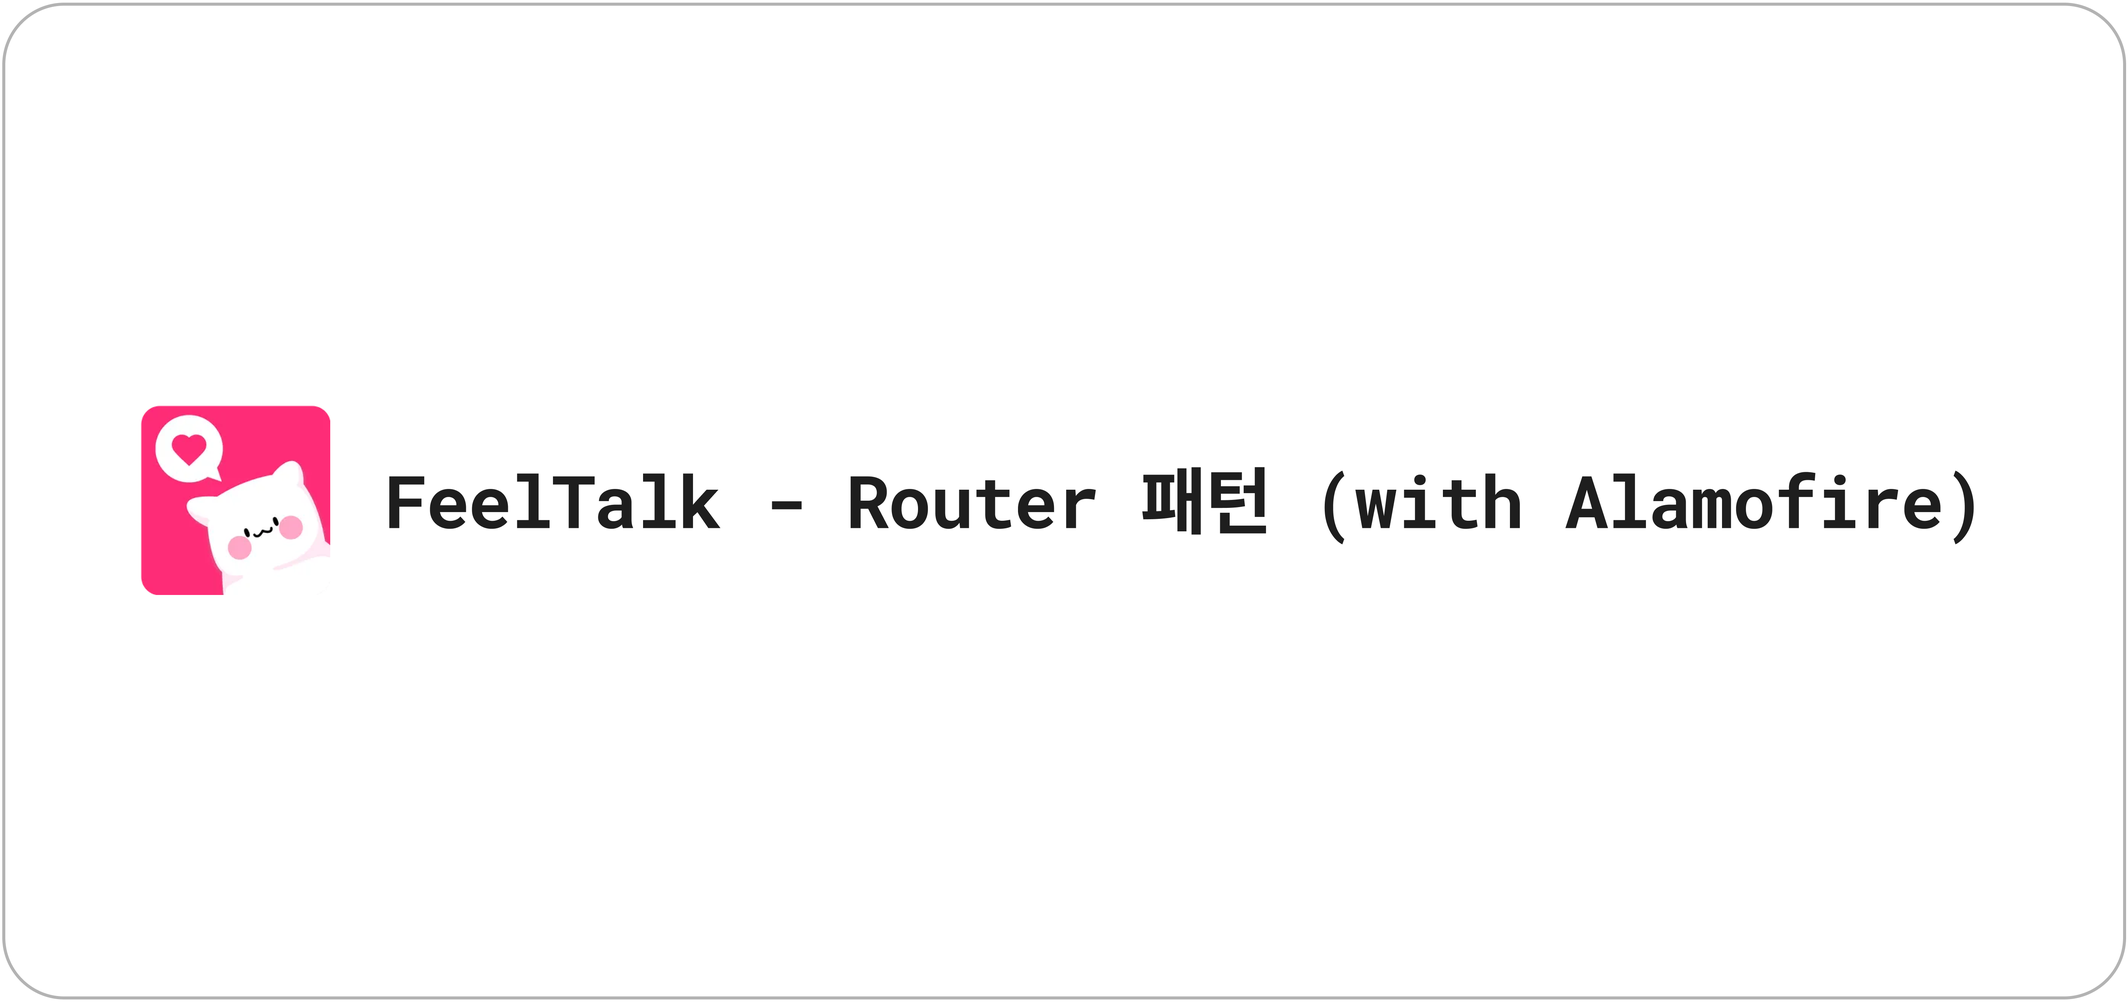
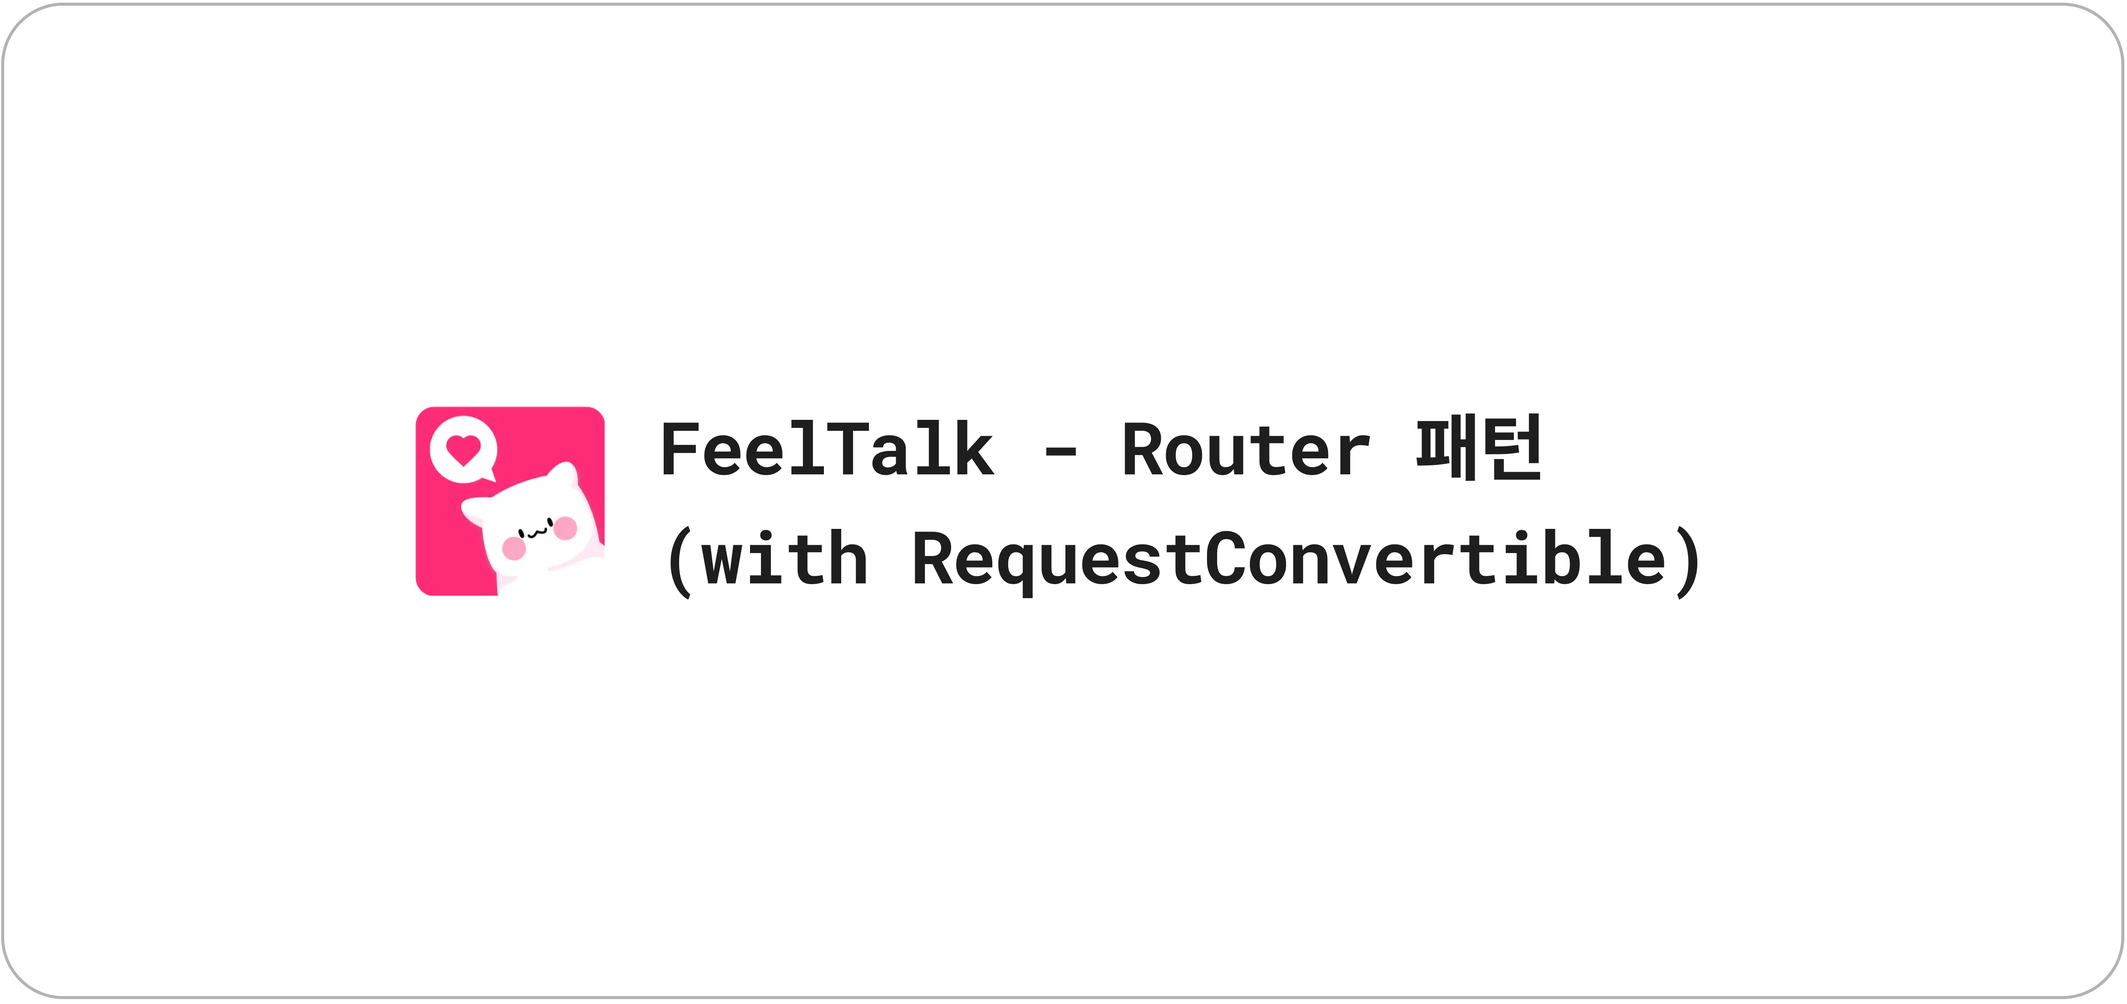
📝 Update feelTalk router documentation

Changed region(s): [[0.0623, 0.4021, 0.9345, 0.6186], [0.9968, 0.0309, 1.0, 0.9589]]

diff --git a/_posts/study/ios/2026-01-04-iOS_FeelTalk_Network_Router.md b/_posts/study/ios/2026-01-04-iOS_FeelTalk_Network_Router.md
@@ -1,6 +1,6 @@
 ---
 layout: post
-title: "FeelTalk - Router 패턴 (with Alamofire)"
+title: "FeelTalk - Router 패턴 (with URLRequestConvertible)"
 sitemap: false
 categories: [study, ios]
 tags: [ios]
@@ -11,100 +11,73 @@ tags: [ios]
 ![Thumbnail](/assets/img/blog/ios/feelTalk_router_thumbnail.png)
 
 ## ✍ Introduction
-이 글에서는 FeelTalk 프로젝트의 네트워크 레이어를 구조화하고 유지보수 효율을 높이기 위해 Router 패턴을 도입하게 된 배경과 구체적인 설계 과정을 소개합니다.
+이 글은 FeelTalk 프로젝트에서 **API 요청을 구성하는 책임을 Router 패턴으로 분리하여 유지보수성과 타입 안정성을 개선한 설계 사례**를 정리한 기술 문서입니다.
 
-특히, Alamofire의 *URLRequestConvertible* 프로토콜을 활용하여 네트워크 요청(Request) 로직을 어떻게 규격화하고 캡슐화했는지를 중점적으로 다루어 보려 합니다.
+Alamofire의 `URLRequestConvertible` 프로토콜을 기반으로 API 명세를 enum으로 구조화하고, API 요청 구성 로직을 **일관되고 예측 가능한 구조**로 정리한 과정을 담고 있습니다.
+
+---
+## 🧱 Background
+네트워크 통신은 앱 전반에 걸쳐 사용되며, FeelTalk 프로젝트에서는 이를 Repository 계층을 통해 관리하고 있었습니다.
+
+그러나 Repository를 도입한 이후에도 API 요청을 어떻게 구성할 것인지에 대한 기준이 없을 경우 해당 로직이 각 Repository 내부에 분산되는 문제가 발생했습니다.
+
+실제로 FeelTalk 프로젝트 초기에는 다음과 같은 문제가 있었습니다.
+
+- **API 요청 명세의 분산**
+  - API 호출이 필요한 Repository마다 URL, HTTP Method, Parameter를 개별 정의
+  - 동일한 API 요청 코드가 여러 Repository에 중복
+  - API 명세 변경 시 수정 범위가 여러 Repository로 확산
+
+- **타입 안전성 부족**
+  - 문자열 기반 Path 관리로 오타를 컴파일 타임에 검출 불가
+  - 네트워크 오류가 런타임에서만 드러나는 구조
+
+이러한 문제는 Repository의 역할을 “데이터 접근 추상화”를 넘어 “API 요청 구성”까지 포함하도록 만들었고, 결과적으로 유지보수 비용과 기능 확장 부담을 증가시켰습니다.
+
+이에 따라 FeelTalk 프로젝트에서는 API 요청 구성 책임을 Repository 외부로 분리하고, 이를 전담할 수 있는 별도의 추상화 계층이 필요하다고 판단했습니다.
 
 ---
 ## 🤔 Why Router Pattern?
-네트워크 통신은 앱의 핵심 기능이지만, 체계적인 관리 없이 구현하게 되면 비즈니스 로직과 얽혀 스파게티 코드를 만드는 주범이 되고, 이는 곧 프로젝트의 전체적인 유지보수성을 저하시키는 요인이 됩니다.
+API 요청 구성 책임을 분리하기 위해, FeelTalk 프로젝트에서는 Router 패턴을 도입했습니다.
 
-실제로 FeelTalk 프로젝트를 진행하며 이러한 구조적 관리 부재로 인해 겪었던 실무적인 문제들은 다음과 같습니다.
+Router 패턴은 **API 엔드포인트를 하나의 추상화된 객체로 표현**함으로써 URL, HTTP Method, Header, Parameter 정의를 한 곳에서 관리할 수 있도록 돕습니다.
 
-* **파편화된 네트워크 로직과 중복 코드**
+이를 기반으로, FeelTalk 프로젝트에서는 Router 패턴을 통해 다음과 같은 구조를 목표로 했습니다.
 
-    프로젝트 초기에는 API 호출이 필요한 곳마다 URL 문자열과 파라미터를 직접 작성했습니다. <br>
-    하지만 기능이 늘어날수록 동일한 API 호출 코드가 여러 *Repository*에 흩어지게 되었습니다. <br>
-    이로 인해 API 명세가 하나라도 변경되면 **프로젝트 전체를 뒤져 수동으로 코드를 수정**해야 하는 유지보수의 비효율성이 발생했습니다.
-
-* **타입 안정성(Type safety) 부재**
-
-    문자열 기반의 경로(Path) 지정은 오타에 매우 취약합니다. <br>
-    컴파일 시점에는 오류를 발견할 수 없고, 오직 런타임에 통신 실패를 통해서만 오타를 확인할 수 있다는 점은 개발 안정성을 저해하는 큰 불안 요소였습니다. <br>
-
-이러한 불안 요소를 해결하기 위해, 모든 API 엔드포인트를 enum으로 정의하여 **중앙 집중식으로 관리**하고, **컴파일 타임에 타입 체크**가 가능한 Router 패턴을 FeelTalk 프로젝트에 도입하게 되었습니다.
+- URL, HTTP Method, Header, Parameter 정의를 한 곳에 집중
+- 호출부에서는 "어떤 API를 호출할 것인가"만 표현
+- API 요청 구성 책임과 데이터 접근 로직의 역할을 분리
 
 ---
-## 👀 Alamofire의 URLRequestConvertible이란?
-본격적인 설계에 앞서, Router 패턴의 뼈대가 되는 *URLRequestConvertible* 프로토콜에 대해 이해할 필요가 있습니다.
+## 👀 Alamofire의 URLRequestConvertible
+Router 패턴을 적용하기 위해, Alamofire가 네트워크 요청을 처리하는 방식을 먼저 살펴볼 필요가 있습니다.
 
-[Alamofire Official Documents](https://github.com/Alamofire/Alamofire/blob/master/Documentation/AdvancedUsage.md#urlrequestconvertible)에서는 *URLRequestConvertible*을 다음과 같이 정의하고 있습니다.
+Alamofire는 모든 네트워크 요청을 `URLRequestConvertible` 프로토콜을 통해 처리합니다.
 
 > Alamofire uses URLRequestConvertible as the foundation of all requests flowing through the request pipeline.
->
-> → Alamofire는 요청 파이프라인을 통해 흐르는 모든 요청의 근간으로 *URLRequestConvertible*을 사용합니다.
 
-즉, 어떤 복잡한 네트워크 요청이라도 *URLRequestConvertible* 프로토콜을 준수하도록 설계하면, Alamofire의 요청 내에서 일관되고 규격화된 방식으로 처리할 수 있음을 의미합니다.
+즉, 어떤 객체든 `URLRequest`로 변환할 수 있다면 Alamofire의 요청 파이프라인에 그대로 전달할 수 있습니다.
 
-실제 Alamofire 소스 코드를 살펴보면, *URLRequestConvertible* 프로토콜은 단 하나의 메서드인 `asURLRequest()`를 통해 모든 요청을 추상화하고 있습니다.
+`URLRequestConvertible`은 단 하나의 메서드인 `asURLRequest()`를 통해 `URLRequest` 구성 과정을 추상화합니다.
 
 ![URLReqeustConvertible Code](/assets/img/blog/ios/feelTalk_router_urlRequestConvertible_code.png)
 
-이 메서드는 *URLRequestConvertible* 프로토콜이 정의한 필수 요구사항으로, 이를 구현함으로써 어떤 객체든 Alamofire가 요청 파이프라인에 활용할 수 있는 *URLRequest*로 변환됩니다.
+이 구조를 활용하면:
+- API 요청 구성 로직을 Router 내부로 캡슐화할 수 있고
+- 호출부에서는 네트워크 구현 상세를 알 필요가 없어집니다.
 
-내부적으로는 아래 코드처럼 URL 조립, HTTP 메서드 설정, 헤더 주입 등 복잡한 과정을 거치지만, 최종적으로는 완성된 *URLRequest* 하나를 반환하는 구조를 가집니다.
+따라서 Router가 `URLRequestConvertible`을 구현하기 위해서는, 각 API 요청이 공통된 형태의 정보(URL, Method, Header, Parameter)를 일관되게 제공할 수 있어야 했습니다.
 
-![URLReqeustConvertible Code](/assets/img/blog/ios/feelTalk_router_asURLRequest_code.png)
-
-결과적으로, *URLRequestConvertible* 프로토콜을 활용하면 상세 구현 로직을 내부로 숨기는 완벽한 캡슐화가 가능해집니다.
-
-호출부에서는 구체적인 생성 과정을 몰라도 *URLRequestConvertible*이라는 공통 인터페이스만으로 안전하게 통신을 요청할 수 있게 되는 것입니다.
-
-이러한 캡슐화와 규격화의 원리를 Router 패턴에 적용한다면, 수많은 API 엔드포인트를 체계적으로 관리할 수 있는 강력한 시스템을 구축할 수 있게 됩니다.
+FeelTalk 프로젝트에서는 이러한 요구사항을 기반으로 Router의 공통 인터페이스를 설계했습니다.
 
 ---
 ## 🛠 Implementation
-### 1. 중앙 집중식 상수 관리
-본격적인 설계에 앞서, 서버 주소와 같은 네트워크 상수들을 체계적으로 관리할 공간이 필요했습니다. 
 
-프로젝트 곳곳에 서버 URL 문자열이 하드코딩되는 것을 방지하기 위해, 별도의 class를 생성하여 **Base URL을 단일 지점에서 관리**하도록 설계했습니다.
+### 1. Router 공통 인터페이스 정의
+Router 간 구현 방식이 달라지는 것을 방지하고, `URLRequestConvertible` 구현에 필요한 정보를 일관되게 제공하기 위해 모든 Router가 반드시 준수해야 하는 공통 프로토콜을 정의했습니다.
 
 ```swift
 // file: "Code01"
-class ClonectAPI {
-    static var BASE_URL: String {
-        // 실제 주소 대신 예시용 주소를 사용합니다.
-        return "https://api.example.com"
-    }
-}
-```
-
-이때, 단순히 값을 묶는 용도라면 enum이 적합할 수 있으나, FeelTalk 프로젝트에서는 향후 서버 환경(Dev, Staging, Prod) 변화에 따른 확장성을 고려했습니다.
-
-상속이 불가능한 enum과 달리, **class는 상속과 다형성을 지원**합니다.
-
-`static var` 기반의 연산 프로퍼티를 사용하여 설계의 가능성을 열어두었으며, 이를 통해 추후 하위 class를 구현하더라도 사용하는 측에서는 부모 타입만을 참조하여 기존 코드의 수정 없이 환경 변화에 유연하게 대응(OCP)할 수 있는 기반을 마련했습니다.
-
-### 2. 도메인별 Router 분리
-앞서 구축한 중앙 집중식 상수 관리 체계를 바탕으로, 실제 API 엔드포인트들을 어떻게 구조적으로 배치할 것인 고민했습니다.
-
-모든 API를 하나의 Router에 담게 되면, 관리가 어려울 뿐만 아니라 코드를 수정할 때 마다 해당 파일 전체를 컴파일해야 하는 비효율이 발생합니다. 
-
-이를 방지하기 위해 FeelTalk의 **도메인을 기준으로 다음과 같이 Router를 세분화**하였습니다.
-
-![URLReqeustConvertible Code](/assets/img/blog/ios/feelTalk_router_domain.png)
-
-이렇게 분리된 Router는 각 도메인의 독립성을 보장하며, 특정 기능의 API 명세가 변경되더라도 해당 Router만 수정하면 되는 유지보수의 편의성을 제공합니다.
-
-### 3. 공통 프로토콜 설계
-도메인별 Router를 분리하더라도, 각 Router가 서로 다른 방식으로 *URLRequest*를 생성한다면 결국 또 다른 형태의 파편화가 발생하게 됩니다.
-
-이를 방지하기 위해 FeelTalk 프로젝트에서는 **모든 Router가 반드시 준수해야 하는 공통 프로토콜을 정의**했습니다.
-
-```swift
-// file: "Code02"
-import Alamofire
-
 public protocol Router {
     var baseURL: String { get }
     var path: String { get }
@@ -115,15 +88,15 @@ public protocol Router {
 }
 ```
 
-모든 네트워크 요청이 (URL, 경로, 메서드, 헤더, 파라미터, 인코딩 방식)이라는 동일한 인터페이스를 갖도록 강제했으며, 이를 통해 도메인이 추가되더라도 네트워크 요청 구조의 일관성을 유지할 수 있습니다.
+해당 인터페이스는 각 API 요청이 `URLRequest`로 변환되기 위해 필요한 최소한의 구성 요소를 정의합니다.
 
-### 4. 상세 구현: 도메인별 API 정의
-설계한 Router 프로토콜을 바탕으로 실제 도메인 로직을 어떻게 구현했는지 살펴보겠습니다. 
+이를 통해 도메인이 추가되더라도 API 요청 구성 방식의 일관성을 유지할 수 있도록 설계했습니다.
 
-먼저, 각 도메인의 엔드포인트들을 enum을 활용해 정의했습니다.
+### 2. 도메인별 API 명세 정의
+각 도메인의 API 엔드포인트는 enum으로 정의했습니다.
 
 ```swift
-// file: "Code03"
+// file: "Code02"
 enum QuestionAPI {
     case answerQuestion(requestDTO: AnswerQuestionRequestDTO)
     case getLatestQuestionPageNo
@@ -135,22 +108,24 @@ enum QuestionAPI {
 ```
 
 - Why Enum?
-  - **타입 안정성(Type Safety) 확보**: 문자열 기반의 URL 관리 방식과 달리, 컴파일 타임에 정의된 케이스만 사용할 수 있도록 강제하여 존재하지 않는 엔드포인트를 호출하는 실수를 사전에 방지합니다.
-  - **연관 값(Associated Value)을 통한 파라미터 규격화**: `answerQuestion(requestDTO:)`나 `getQuestion(index:)`처럼 각 API 요청에 필요한 데이터를 연관 값으로 묶어두었습니다.<br>이를 통해 해당 API 호출 시 필수 데이터를 인터페이스 상에서 명확히 정의할 수 있으며, 데이터 누락 없이 안전하게 파라미터를 전달합니다.
+  - **타입 안정성 확보**: 문자열 기반의 URL 관리 방식과 달리, **컴파일 타임에 정의된 케이스만 사용할 수 있도록 강제**하여 존재하지 않는 엔드포인트를 호출하는 실수를 사전에 방지합니다.
+  - **연관 값을 통한 파라미터 규격화**: `answerQuestion(requestDTO:)`나 `getQuestion(index:)`와 같이 각 API 요청에 필요한 데이터를 연관 값으로 표현함으로써 데이터 누락 없이 안전하게 파라미터를 전달할 수 있습니다.
 
-이렇게 enum으로 정의된 각 케이스는 이후 extension 내부의 `switch` 문을 거치며 각기 다른 path, method, parameters로 변환됩니다
+### 3. URLRequestConvertible 구현
+이렇게 enum으로 정의된 각 API 명세는 Router 공통 인터페이스를 만족하도록 구현되며 `URLRequestConvertible`을 통해 실제 네트워크 요청으로 변환됩니다.
 
 ```swift
+// file: "Code03"
 extension QuestionAPI: Router, URLRequestConvertible {
-    var baseURL: String { ClonectAPI.BASE_URL }
-    
+    var baseURL: String { /* Base URL */ }
+
     var path: String {
         switch self {
         case .answerQuestion:
             return "/..."
         case .getLatestQuestionPageNo:
             return "/..."
-        case .getQuestion(index: let index):
+        case .getQuestion(let index):
             return "/.../\(index)"
         case .getQuestionList:
             return "/..."
@@ -160,8 +135,8 @@ extension QuestionAPI: Router, URLRequestConvertible {
             return "/..."
         }
     }
-    
-    var method: Alamofire.HTTPMethod {
+
+    var method: HTTPMethod {
         switch self {
         case .answerQuestion:
             return .put
@@ -171,70 +146,71 @@ extension QuestionAPI: Router, URLRequestConvertible {
             return .post
         }
     }
-    
-    var header: [String : String] {
-        switch self {
-        case .answerQuestion,
-                .getLatestQuestionPageNo,
-                .getQuestion,
-                .getQuestionList,
-                .getTodayQuestion,
-                .pressForAnswer:
-            return ["Content-Type": "application/json",
-                    "Accept": "application/json"]
-        }
+
+    var header: [String: String] {
+        [
+            "Content-Type": "application/json",
+            "Accept": "application/json"
+        ]
     }
-    
-    var parameters: [String : Any]? {
+
+    var parameters: [String: Any]? {
         switch self {
-        case .answerQuestion(requestDTO: let requestDTO):
-            return ["index": requestDTO.index,
-                    "myAnswer": requestDTO.myAnswer]
-        case .getLatestQuestionPageNo, .getQuestion, .getTodayQuestion:
+        case .answerQuestion(let dto):
+            return [
+                "index": dto.index,
+                "myAnswer": dto.myAnswer
+            ]
+        case .getQuestionList(let page):
+            return ["pageNo": page.pageNo]
+        case .pressForAnswer(let dto):
+            return ["index": dto.index]
+        default:
             return nil
-        case .getQuestionList(questionPage: let questionPage):
-            return ["pageNo": questionPage.pageNo]
-        case .pressForAnswer(requestDTO: let requestDTO):
-            return ["index": requestDTO.index]
         }
     }
-    
-    var encoding: Alamofire.ParameterEncoding? {
-        switch self {
-        case .answerQuestion,
-                .getLatestQuestionPageNo,
-                .getQuestion,
-                .getQuestionList,
-                .getTodayQuestion,
-                .pressForAnswer:
-            return JSONEncoding.default
-        }
+
+    var encoding: ParameterEncoding? { JSONEncoding.default }
+
+    func asURLRequest() throws -> URLRequest {
+        let url = URL(string: baseURL + path)!
+        var request = URLRequest(url: url)
+
+        request.method = method
+        request.headers = HTTPHeaders(header)
+
+        return try encoding?.encode(request, with: parameters) ?? request
     }
 }
 ```
 
-최종적으로 enum으로 정의된 명세들이 실제 네트워크 요청으로 변환되는 마지막 관문은 `asURLRequest()` 메서드입니다. 
+이 구조를 통해 API 요청은 Router 내부에서 일관되게 정의되며, 호출부에서는 “어떤 API를 사용할 것인가”만 표현할 수 있도록 설계했습니다.
 
-이 메서드는 프로토콜의 요구사항을 준수하며, 분산되어 있던 데이터들을 하나의 URLRequest로 조립합니다.
+---
+
+## ✅ Result
+Router 패턴을 적용한 이후, Background에서 언급했던 **API 요청 명세의 분산 문제는 Router로 중앙화**되었고, 그 결과 Repository는 더 이상 API 요청의 세부 구현을 직접 다루지 않게 되었습니다.
+
+아래는 Router 패턴 적용 이후 FeelTalk 프로젝트의 `DefaultQuestionRepository` 일부 코드입니다.
 
 ```swift
-// /// URLRequestConvertible 프로토콜의 필수 요구사항 구현 메서드
-func asURLRequest() throws -> URLRequest {
-    let url = URL(string: baseURL + path)   // 주소(URL) 생성: 서버 주소(baseURL)와 세부 경로(path)를 결합합니다.
-    var request = URLRequest(url: url!)     // URLRequest 초기화: 생성된 URL을 바탕으로 네트워크 요청서의 뼈대를 만듭니다.
-    
-    request.method = method                 // HTTP 메서드 설정: 해당 API에 맞는 전송 방식(GET, POST, PUT, DELETE 등)을 지정합니다.
-    request.headers = HTTPHeaders(header)   // HTTP 헤더 주입: JSON 통신 설정 등 미리 정의된 공통 헤더 정보를 요청서에 담습니다.
-    
-    // 파라미터 인코딩 처리: 
-    // 전송할 데이터(parameters)가 있다면, 설정된 인코딩 방식(JSONEncoding 등)에 따라 
-    // 데이터를 요청서의 Body에 담거나 URL 뒤에 붙여주는 작업을 수행합니다.
-    if let encoding = encoding {
-        // 인코딩이 성공하면 파라미터가 포함된 최종 요청서를 반환합니다.
-        return try encoding.encode(request, with: parameters)
-    }
-    
-    // 인코딩할 데이터가 없는 경우, 기본 요청서를 그대로 반환합니다.
-    return request
-}
+// file: "Code04"
+AF.request(
+    QuestionAPI.getTodayQuestion,
+    interceptor: DefaultRequestInterceptor()
+)
 ```
+
+Repository 에서는:
+- URL 문자열이나 HTTP Method를 직접 정의하지 않고
+- 어떤 API를 호출할 것인지에 대한 의도만 표현합니다.
+
+API 요청에 필요한 모든 명세는 `QuestionAPI` Router 내부에 캡슐화되어 있으며, Repository는 네트워크 요청 결과를 도메인 모델로 변환하는 역할에 집중합니다.
+
+이를 통해 **Repository의 책임은 "API 요청 구성"이 아닌 "데이터 접근 및 응답 매핑"으로 명확히 한정**되었습니다.
+
+결과적으로 Router 패턴 도입 이후:
+- API 명세 변경에 따른 수정 범위가 Router로 국한되었고
+- Repository 간 중복 코드가 제거되었으며
+- 네트워크 레이어 전반의 유지보수성과 가독성이 개선되었습니다
+
